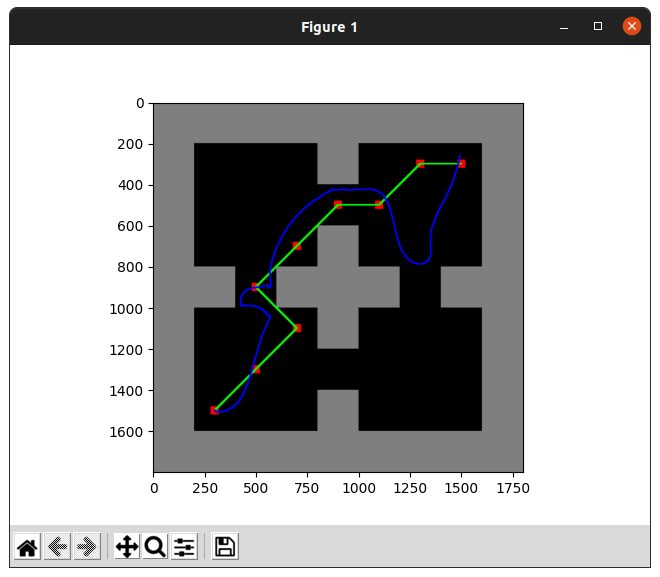
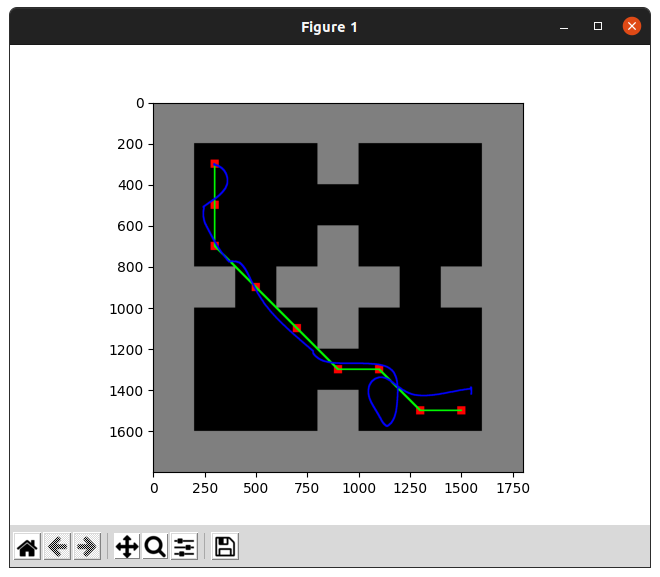
commit sync

diff --git a/test.py b/test.py
@@ -77,5 +77,5 @@ for x, y in zip(X, Y):
     row, col = xy_to_imgrowcol(x, y)
     img[row - 4: row + 4, col - 4: col + 4] = [0, 0, 1]
 
-plt.imshow(img)
+plt.imshow(np.flipud(img))
 plt.show()
